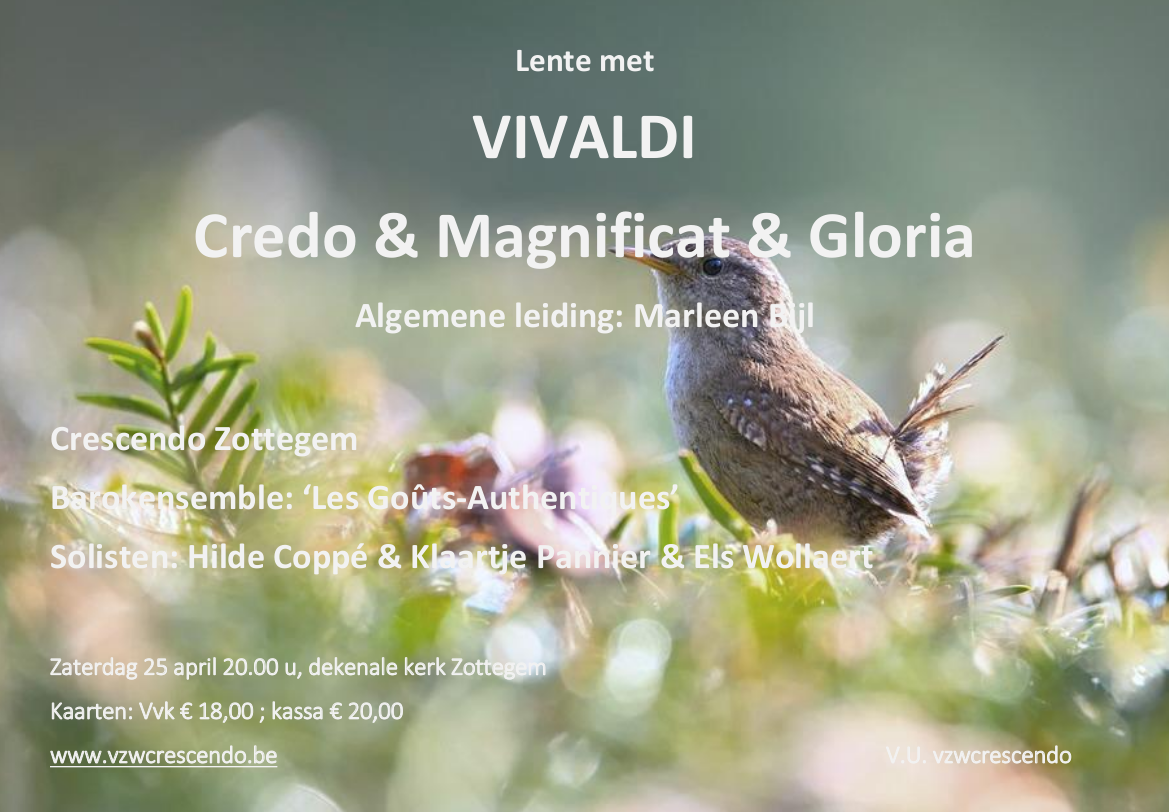
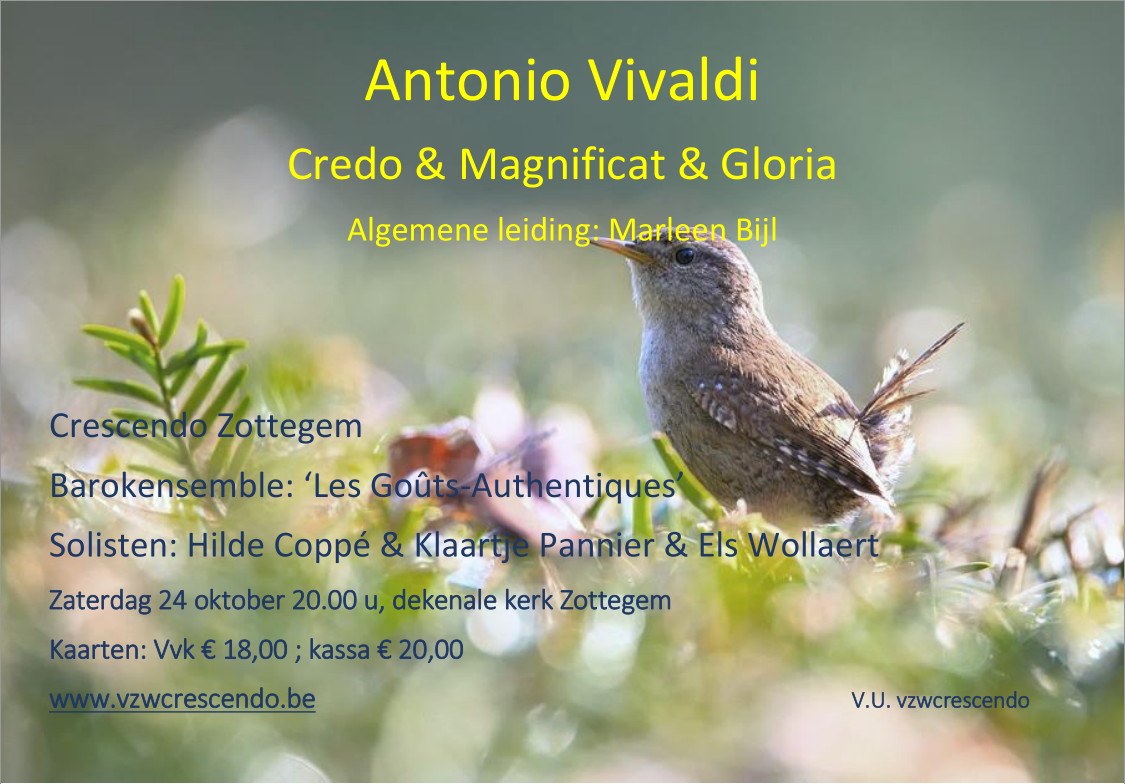
Update Vivaldi concert - Sponsors and dates

diff --git a/_events/2020-04-15-optreden-vivaldi.md b/_events/2020-04-15-optreden-vivaldi.md
@@ -1,7 +1,7 @@
 ---
 layout: post
 title:  "Lente met Vivaldi"
-optreden: 2020-04-15 20:00:00 +0100
+optreden: 2020-10-24 20:00:00 +0100
 locatie: Dekenale kappel Zottegem
 category: blog
 excerpt: "Crescendo brengt u een lenteconcert met muziek van de geliefde componist Vivaldi. We zingen het Credo, Magnificat, en Gloria. Het concert wordt geleid door Marleen Bijl."
@@ -20,7 +20,7 @@ De kaarten zullen €18,00 kosten in voorverkoop, of €20,00 aan de kassa.
 <center>
 <figure>
   <a href="{{ site.baseurl }}/img/kalender/vivaldi.png" data-lity>
-    <img src="{{ site.baseurl }}/img/kalender/vivaldi.png" alt="25 april 2020 - Lente met Vivaldi" />
+    <img src="{{ site.baseurl }}/img/kalender/vivaldi.png" alt="Affiche Lente met Vivaldi" />
   </a>
   <figcaption>Onze affiche</figcaption>
 </figure>
@@ -40,64 +40,120 @@ Het Lente met Vivaldi concert wordt mede mogelijk gemaakt dankzij onze sponsors.
 Wij willen graag de volgende partners bedanken voor hun steun:
 <br /><br />
   <br />
+  <!--- GOLD vanaf 175 EUR --->
     <div class="sponsors_gold">
         <div class="gallery">
             <center>
             <figure>
-            <a href="https://www.nuby.be" target="_blank">
-                <img src="{{ site.baseurl }}/img/kalender/sponsors-vivaldi/new_valmar.png" alt="New Valmar" />
-            </a>
+                <a href="https://www.nuby.be" target="_blank">
+                    <img src="{{ site.baseurl }}/img/kalender/sponsors-vivaldi/new_valmar.png" alt="New Valmar" />
+                </a>
             </figure>
             </center>
         </div>
     </div>
 
   <br /><br /><br />
+  <!--- SILVER vanaf 100 EUR --->
     <div class="sponsors_silver">
     <div class="gallery">
             <center>
             <figure>
-            <a href="https://www.elpe.be/" target="_blank">
-                <img src="{{ site.baseurl }}/img/kalender/sponsors-vivaldi/elpe.png" alt="ELPE werfdoek" />
-            </a>
+                <a href="https://www.elpe.be/" target="_blank">
+                    <img src="{{ site.baseurl }}/img/kalender/sponsors-vivaldi/elpe.png" alt="ELPE werfdoek" />
+                </a>
+            </figure>
+            <figure>
+                <a href="https://www.zottegemwinkelcentrum.be/jo-dieraert-florist/" target="_blank">
+                    <img src="{{ site.baseurl }}/img/kalender/sponsors-vivaldi/florist_dieraert.png" alt="Florist Jo Dieraert" />
+                </a>
+            </figure>
+            <figure>
+                <a href="https://www.facebook.com/ChezLaurentCafe/" target="_blank">
+                    <img src="{{ site.baseurl }}/img/kalender/sponsors-vivaldi/laurent.jpeg" alt="Chez Laurent" />
+                </a>
+            </figure>
+            <figure>
+                <a href="https://optiek-vandekeere.be/" target="_blank">
+                    <img src="{{ site.baseurl }}/img/kalender/sponsors-vivaldi/van_de_keere.png" alt="Optiek Van De Keere" />
+                </a>
             </figure>
             </center>
         </div>
     </div>
     <br /><br /><br />
     <div class="sponsors_bronze">
+    <!--- BRONS vanaf 50 EUR --->
     <div class="gallery">
             <center>
-            <figure>
-            <a href="" target="_blank">
-                <img src="{{ site.baseurl }}/img/kalender/sponsors-vivaldi/francy.png" alt="New Valmar" />
-            </a>
-            </figure>
-            <figure>
-            <a href="" target="_blank">
-                <img src="{{ site.baseurl }}/img/kalender/sponsors-vivaldi/volkshuis.png" alt="New Valmar" />
-            </a>
-            </figure>
-            <figure>
-            <a href="http://www.huysteoudenhove.be/" target="_blank">
-                <img src="{{ site.baseurl }}/img/kalender/sponsors-vivaldi/huys_oudenhove.png" alt="New Valmar" />
-            </a>
-            </figure>
-            <figure>
-            <a href="https://www.labaere.be/" target="_blank">
-                <img src="{{ site.baseurl }}/img/kalender/sponsors-vivaldi/labaere.png" alt="New Valmar" />
-            </a>
-            </figure>
-            <figure>
-            <a href="http://www.garagevantwembeke.be/renault" target="_blank">
-                <img src="{{ site.baseurl }}/img/kalender/sponsors-vivaldi/twembeke.png" alt="New Valmar" />
-            </a>
-            </figure>
-            <figure>
-            <a href="https://nl-nl.facebook.com/VishandelDeKust" target="_blank">
-                <img src="{{ site.baseurl }}/img/kalender/sponsors-vivaldi/de_kust.png" alt="New Valmar" />
-            </a>
-            </figure>
+                <figure>
+                    <a href="" target="_blank">
+                        <img src="{{ site.baseurl }}/img/kalender/sponsors-vivaldi/francy.png" alt="New Valmar" />
+                    </a>
+                </figure>
+                <figure>
+                    <a href="" target="_blank">
+                        <img src="{{ site.baseurl }}/img/kalender/sponsors-vivaldi/volkshuis.png" alt="New Valmar" />
+                    </a>
+                </figure>
+                <figure>
+                    <a href="http://www.huysteoudenhove.be/" target="_blank">
+                        <img src="{{ site.baseurl }}/img/kalender/sponsors-vivaldi/huys_oudenhove.png" alt="New Valmar" />
+                    </a>
+                </figure>
+                <figure>
+                    <a href="https://www.labaere.be/" target="_blank">
+                        <img src="{{ site.baseurl }}/img/kalender/sponsors-vivaldi/labaere.png" alt="New Valmar" />
+                    </a>
+                </figure>
+                <figure>
+                    <a href="http://www.garagevantwembeke.be/renault" target="_blank">
+                        <img src="{{ site.baseurl }}/img/kalender/sponsors-vivaldi/twembeke.png" alt="New Valmar" />
+                    </a>
+                </figure>
+                <figure>
+                    <a href="https://nl-nl.facebook.com/VishandelDeKust" target="_blank">
+                        <img src="{{ site.baseurl }}/img/kalender/sponsors-vivaldi/de_kust.png" alt="New Valmar" />
+                    </a>
+                </figure>
+                <figure>
+                    <a href="http://badisco-herzele.toyotanet.be/" target="_blank">
+                        <img src="{{ site.baseurl }}/img/kalender/sponsors-vivaldi/badisco.png" alt="Garage Badisco Herzele" />
+                    </a>
+                </figure>
+                <figure>
+                    <a href="https://www.facebook.com/JamesZottegem" target="_blank">
+                        <img src="{{ site.baseurl }}/img/kalender/sponsors-vivaldi/james.png" alt="Cafe James Zottegem" />
+                    </a>
+                </figure>
+                <figure>
+                    <a href="https://vdbdefietsspecialist.be/" target="_blank">
+                        <img src="{{ site.baseurl }}/img/kalender/sponsors-vivaldi/kurt.png" alt="Fietsspecialist Kurt" />
+                    </a>
+                </figure>
+                <figure>
+                    <a href="http://www.optiekjacques.be/" target="_blank">
+                        <img src="{{ site.baseurl }}/img/kalender/sponsors-vivaldi/optiek_jaques.png" alt="Optiek Jacques" />
+                    </a>
+                </figure>
+                <figure>
+                    <a href="https://www.facebook.com/pastrydesignzottegem" target="_blank">
+                        <img src="{{ site.baseurl }}/img/kalender/sponsors-vivaldi/pastry.png" alt="Pastry Design" />
+                    </a>
+                </figure>
+                <figure>
+                    <a href="https://www.oosterzeleonderneemt.be/handelaar/slagerij-jo-heyndrickx/" target="_blank">
+                        <img src="{{ site.baseurl }}/img/kalender/sponsors-vivaldi/traiteur.png" alt="Jo Heyndrickx" />
+                    </a>
+                </figure>
+                <figure>
+                    <a href="https://www.facebook.com/Praat-en-knabbelcaf%C3%A9-t-goe-leven-557470884353878/" target="_blank">
+                        <img src="{{ site.baseurl }}/img/kalender/sponsors-vivaldi/goe_leven.png" alt="t Goe Leven - Praat en Knabbelcafe" />
+                    </a>
+                </figure>
+
+            
+            
             </center>
         </div>
     </div>

diff --git a/_events/2019-09-28-noorderlicht-16.md b/_events/2019-09-28-noorderlicht-16.md
@@ -21,12 +21,12 @@ Toegangskaarten zijn verkrijgbaar bij de organisatie.
 
 
 <div class="gallery">
-<center>
-<figure>
-  <a href="{{ site.baseurl }}/img/kalender/noorderlicht.png" data-lity>
-    <img src="{{ site.baseurl }}/img/kalender/noorderlicht.png" alt="17 november 2019 - Crescendo zingt Nooderlicht" />
-  </a>
-  <figcaption>Onze affiche</figcaption>
-</figure>
-</center>
+  <center>
+  <figure>
+    <a href="{{ site.baseurl }}/img/kalender/noorderlicht.png" data-lity>
+      <img src="{{ site.baseurl }}/img/kalender/noorderlicht.png" alt="17 november 2019 - Crescendo zingt Nooderlicht" />
+    </a>
+    <figcaption>Onze affiche</figcaption>
+  </figure>
+  </center>
 </div>
